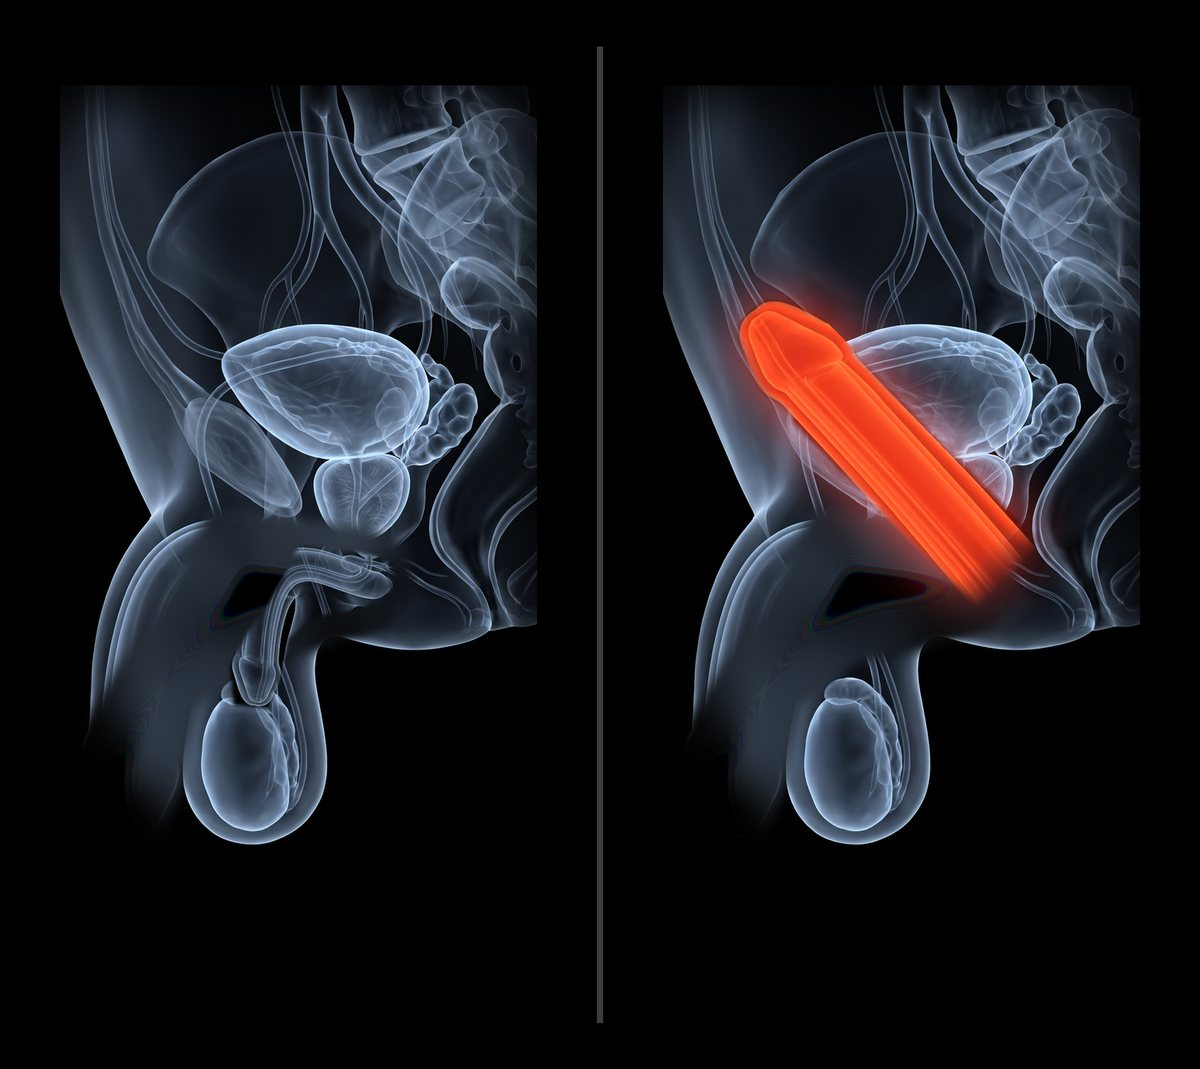
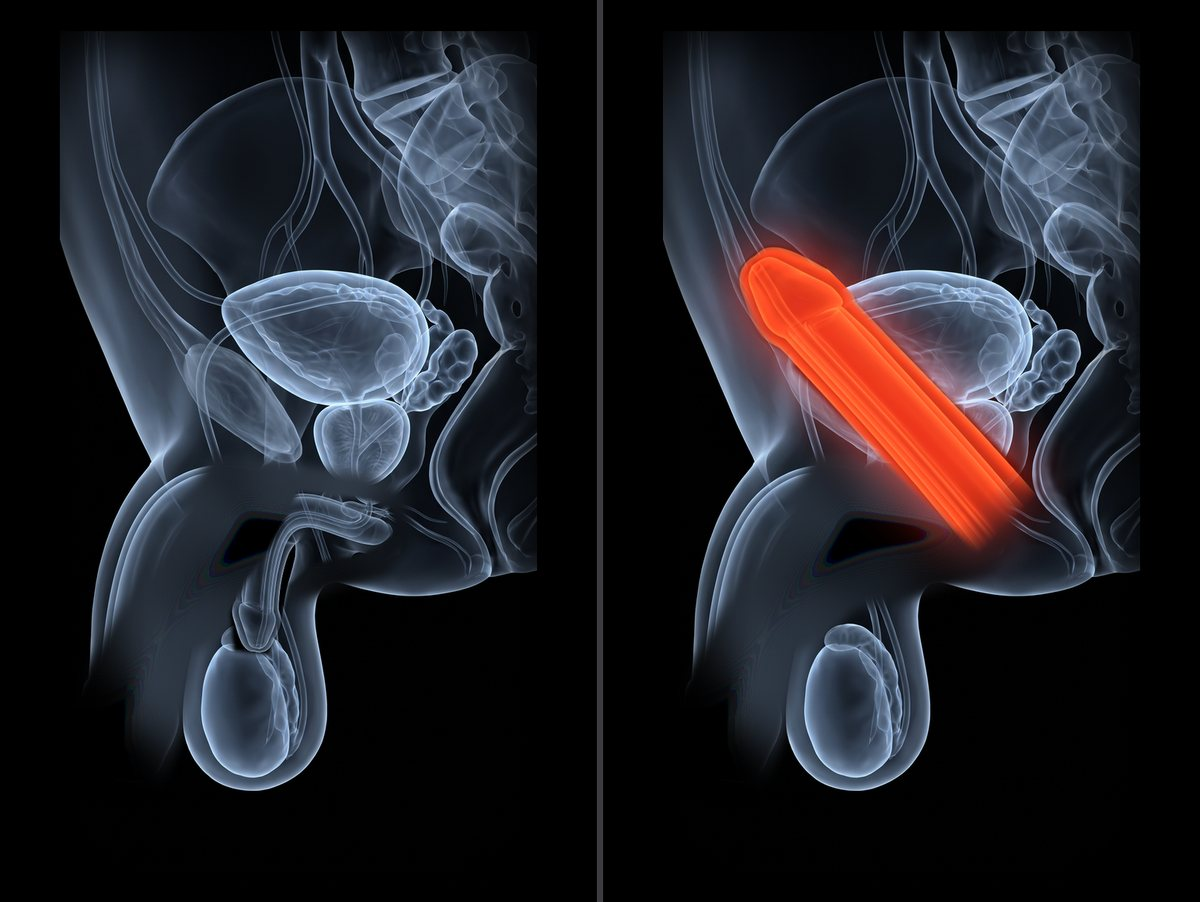
Trim the comparison picture

diff --git a/index.html b/index.html
@@ -217,7 +217,7 @@ footer a{color:var(--ink-3)}
   <h1>In 2026, swallowing the pill costs you the WEEKEND.</h1>
 
   <figure class="photo organ wide hero">
-    <img src="directmax/compare.jpg?v=3" alt="3D X-ray illustration of the male organ side by side, soft and small on the left, very hard and straight on the right" width="1200" height="1069">
+    <img src="directmax/compare.jpg?v=4" alt="3D X-ray illustration of the male organ side by side, soft and small on the left, very hard and straight on the right" width="1200" height="902">
     <figcaption>On the left, soft, and she's already asleep. On the right, hard, and ready the minute she is.</figcaption>
   </figure>
   <p class="subhead">Stick with me, and I'll show you how you can be ready the minute she is, from Friday night into Sunday morning, without planning a thing.</p>
